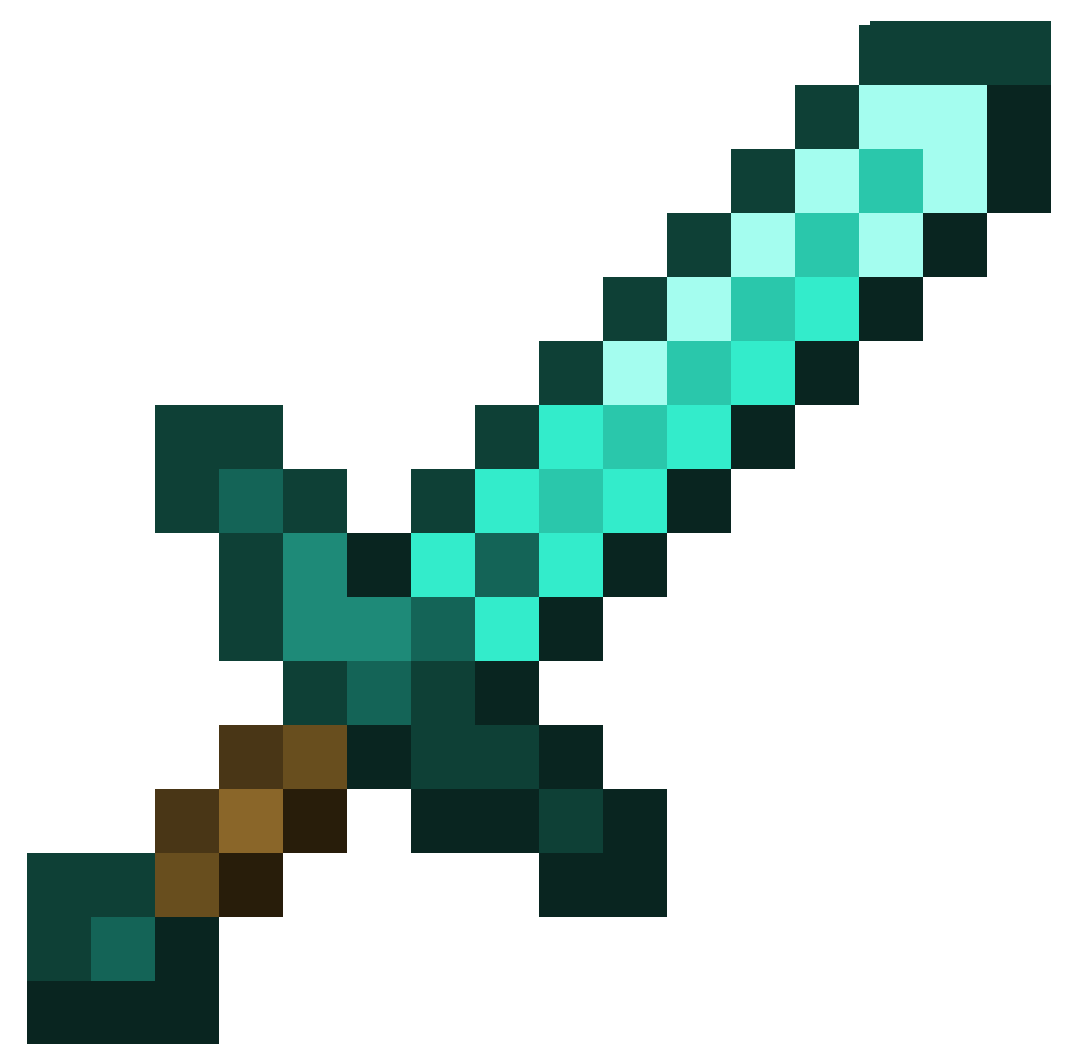
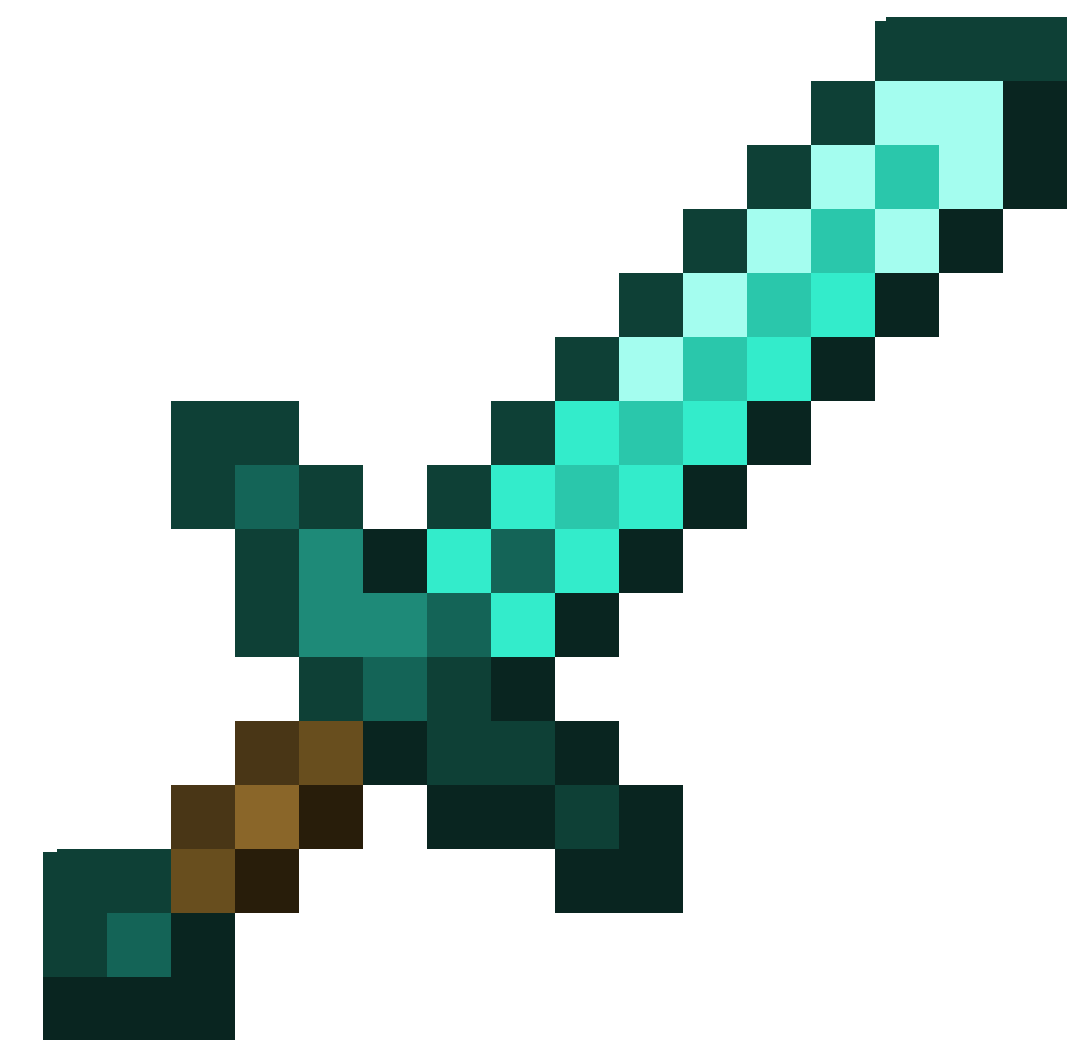
save

Changed region(s): [[0.0, 0.0, 1.0, 1.0]]

diff --git a/inspo.html b/inspo.html
@@ -10,6 +10,19 @@
 <a href="index.html"><div class="back-button"><img src="back-image.jpg" alt="back-button" class="back-image"></div></a>    
 <p>looking for something more specific? <a href="https://www.grabcraft.com/">GrabCraft</a> is the website for you, 
      it has heaps of different build designs with super simple instructions.</p>
+     <br>
+     <br>
+     <div class="words">
+        <br>
+     <p>FAQs about Minecraft</p>
+     <br>
+     <p>Tips and tricks, intermediate level</p>
+     <br>
+     <p>Beginer tips and how to play </p>
+     <br>
+     <p>Inspiration</p>
+     <br>
+     </div>
 
 </body>   
 </html>

diff --git a/style.css b/style.css
@@ -155,12 +155,12 @@ font-size: -2px;
 }
 
 .icon{
-    width: 50px;
+    width: 40px;
     display: block;
     align-items: center;
     margin-left: auto;
     margin-right:auto;
-    transform: translateY(-40px);
+    transform: translateY(-30px);
 }
 .line{
     width: auto;
@@ -171,4 +171,9 @@ margin-left: 0px;
 margin-top: 0px;
 margin-bottom: 10px;
 width: 300px;
+}
+.words{
+    text-align: center;
+    font-size:x-large;
+ color: black;
 }

diff --git a/tips.html b/tips.html
@@ -7,7 +7,8 @@
     <link rel="stylesheet" href="style.css"/>
 </head>
 <body>
- <a href="index.html"><div class="back-button"><img src="back-image.jpg" alt="back-button" class="back-image"></div></a>  
+ <a href="index.html"><div class="back-button"><img src="back-image.jpg" alt="back-button" class="back-image"></div></a> 
+ <h1>how to play Minecraft for beginners</h1> 
 
 </body>   
 </html>

diff --git a/index.html b/index.html
@@ -17,7 +17,7 @@
       <hr class="line">
     <img class="icon" src="sword-daimond.png" alt="icon">
      <a href="tips.html"><div class="page_link1">
-     <h2>Beginer tips and how to play</h2>
+     <h2>Beginner tips and how to play</h2>
     </div></a>
      <p>If you're new to Minecraft this is the page for you</p>
      <br>
